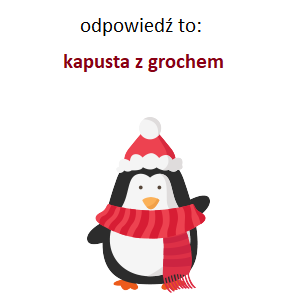
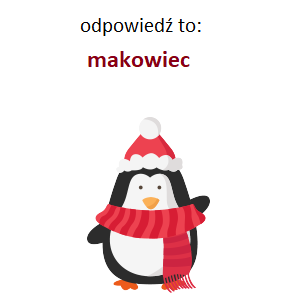
updated styles and js

Changed region(s): [[0.21, 0.15, 0.75, 0.24]]

diff --git a/src/DevAdventCalendarCompetition/DevAdventCalendarCompetition/wwwroot/theme-2019/js/main.js b/src/DevAdventCalendarCompetition/DevAdventCalendarCompetition/wwwroot/theme-2019/js/main.js
@@ -249,7 +249,7 @@ function CheckTestStatus(testNumber) {
 
 function GetResult(number) {
     if (number == 20) {
-        return "odpowiedź to: 'kutia z makiem'";
+        return "odpowiedź to: 'kutia'";
     }
     else {
         return "To nie ten numer! Spróbuj jeszcze raz...";
